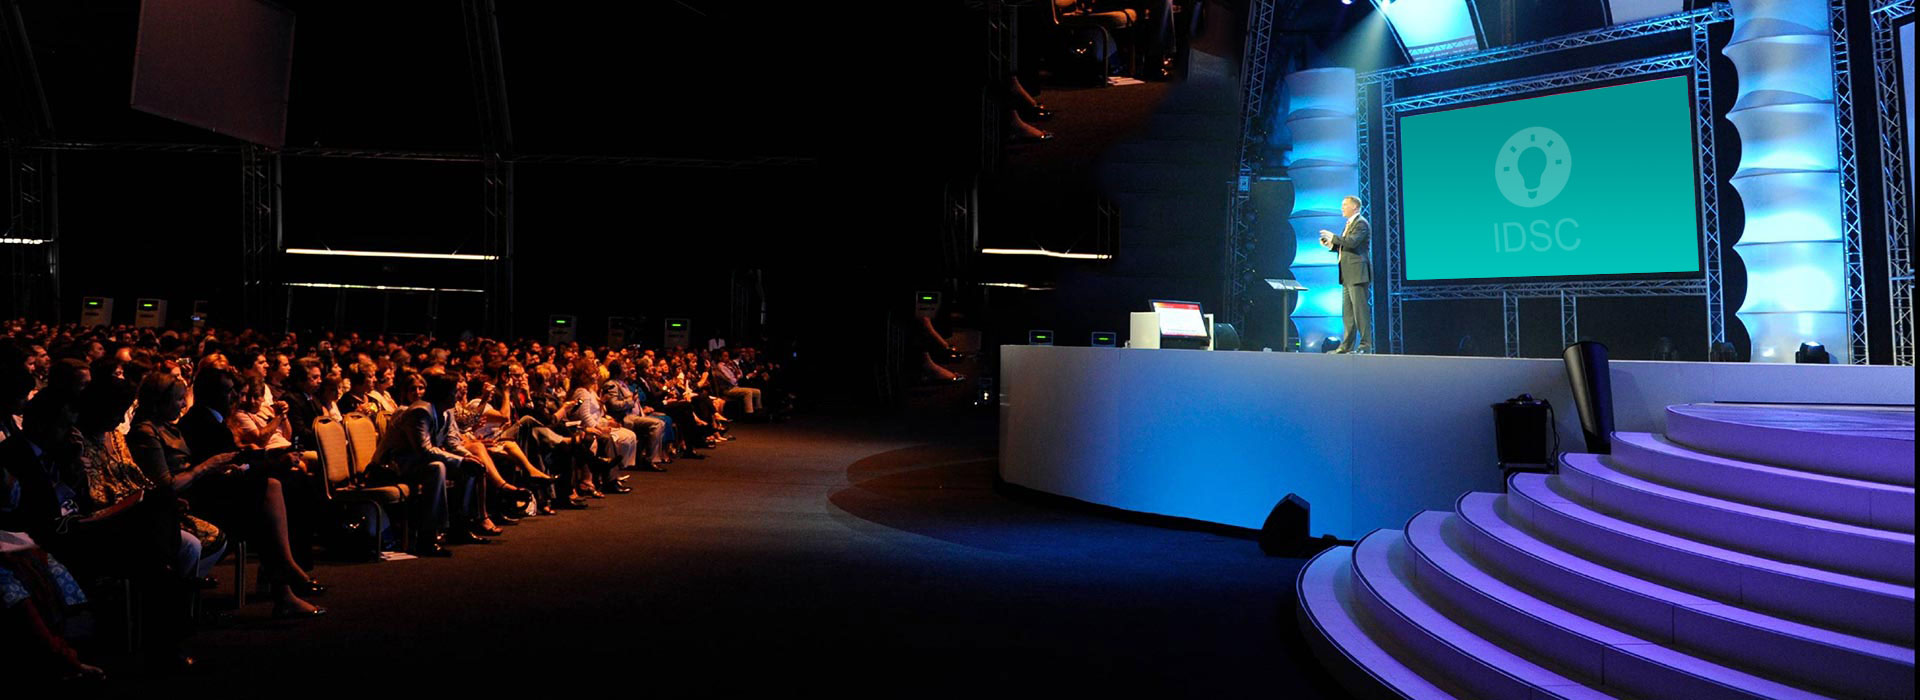
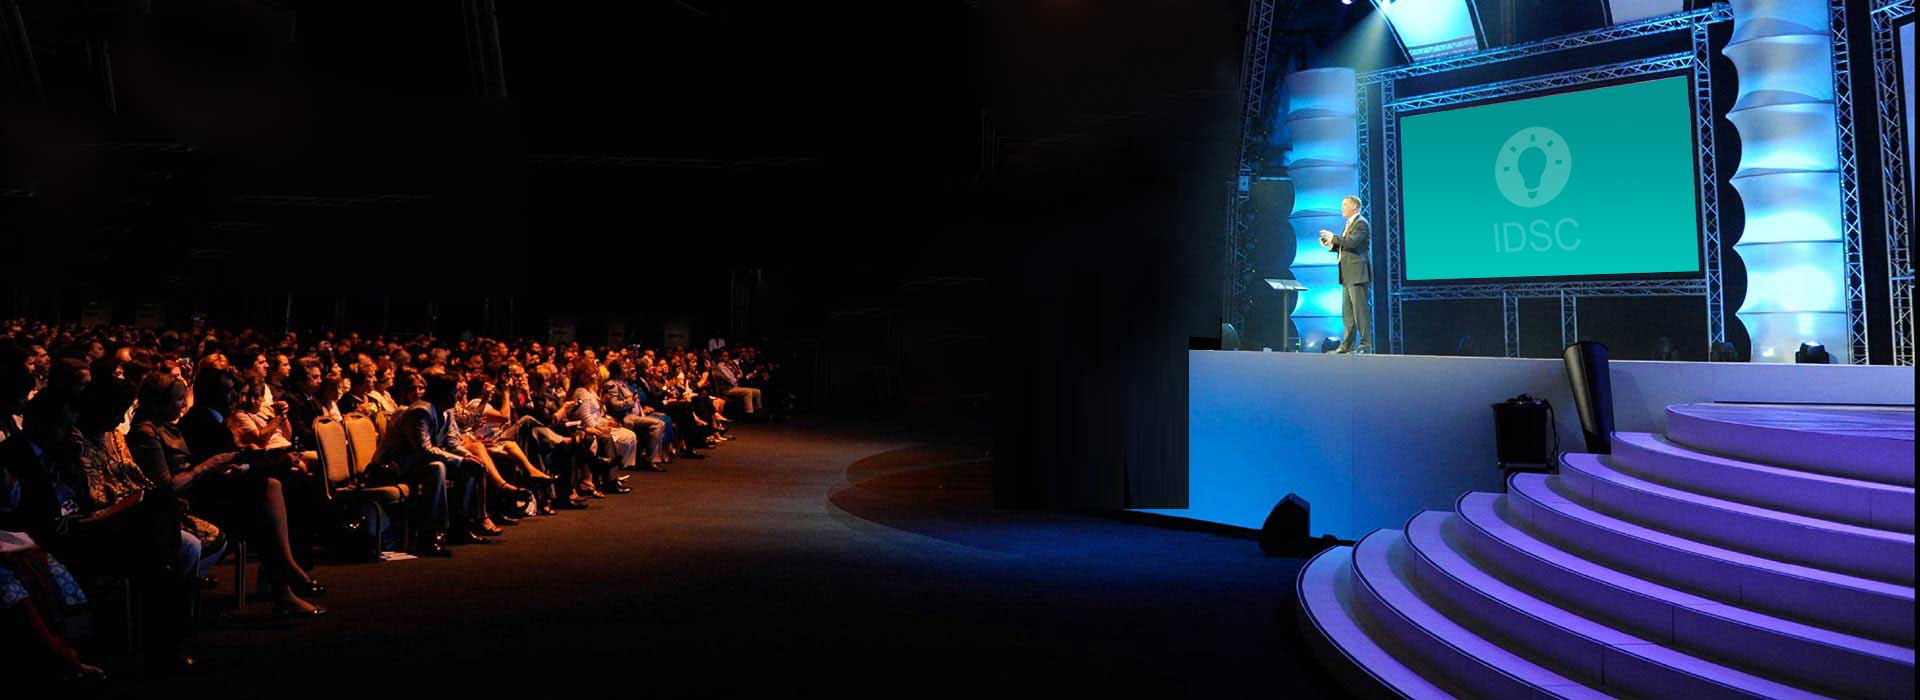
IDSC优化背景图片

diff --git a/idsc2014/js/main.js b/idsc2014/js/main.js
@@ -242,7 +242,7 @@ $(window).load(function(){
 	function init_map() {
     var myOptions = {
         zoom: 14,
-        center: new google.maps.LatLng(-37.868440, 144.988665), //change the coordinates Melbourne town hall
+        center: new google.maps.LatLng(-37.868440, 144.988665), //change the coordinates St Kilda Town Hall
         mapTypeId: google.maps.MapTypeId.ROADMAP,
 		scrollwheel: false,
 		styles: [{featureType:'all',stylers:[{saturation:-100},{gamma:0.50}]}]
@@ -250,10 +250,11 @@ $(window).load(function(){
     map = new google.maps.Map(document.getElementById("gmap_canvas"), myOptions);
     marker = new google.maps.Marker({
         map: map,
-        position: new google.maps.LatLng(-37.868440, 144.988665) //change the coordinates Melbourne town hall
+        position: new google.maps.LatLng(-37.868440, 144.988665) //change the coordinates St Kilda Town Hall
     });
     infowindow = new google.maps.InfoWindow({
-        content: "<b>St Kilda Town Hall </b><br/>99A Carlisle Street, St Kilda "  //add your address
+        content: "St Kilda Town Hall<br/><b>99A Carlisle Street</b><br/>" 
+		 //add your address
     });
     google.maps.event.addListener(marker, "click", function () {
         infowindow.open(map, marker);

diff --git a/idsc2014/css/main.css b/idsc2014/css/main.css
@@ -161,7 +161,7 @@ h4 {
 /* TOP */
 
 #top {
-	background:url(../img/top-bg-1920.jpg) bottom center no-repeat;/*06-conference-075.jpg*/
+	background:url(../img/06-conference-075.jpg) bottom center no-repeat;/*06-conference-075.jpg*/
 	width:100%;
 	max-height:auto;
 	height:600px;
@@ -607,7 +607,7 @@ h4 {
 
 #register {
 	padding:70px 0;
-	background:url(../img/top-bg-1920.jpg) center center no-repeat fixed;/*register-bg.png*/
+	background:url(../img/06-conference-075.jpg) center center no-repeat fixed;/*register-bg.png*/
 	background-size:cover;
 	-webkit-background-size:cover;
 	-moz-background-size:cover;
